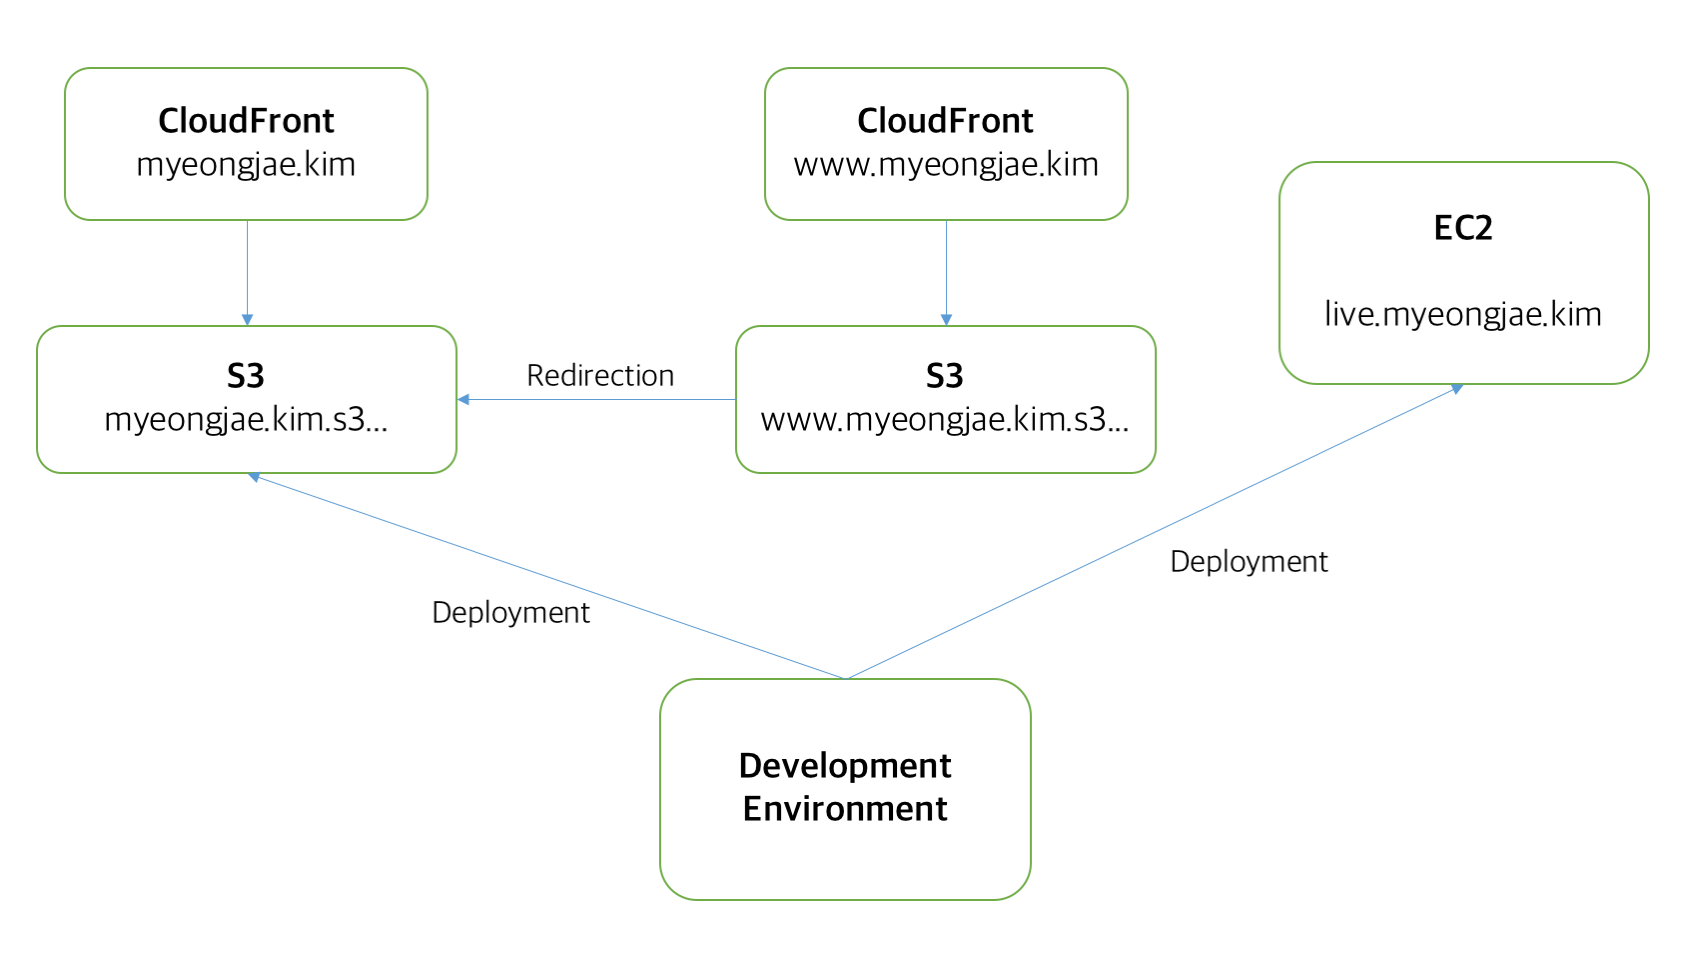
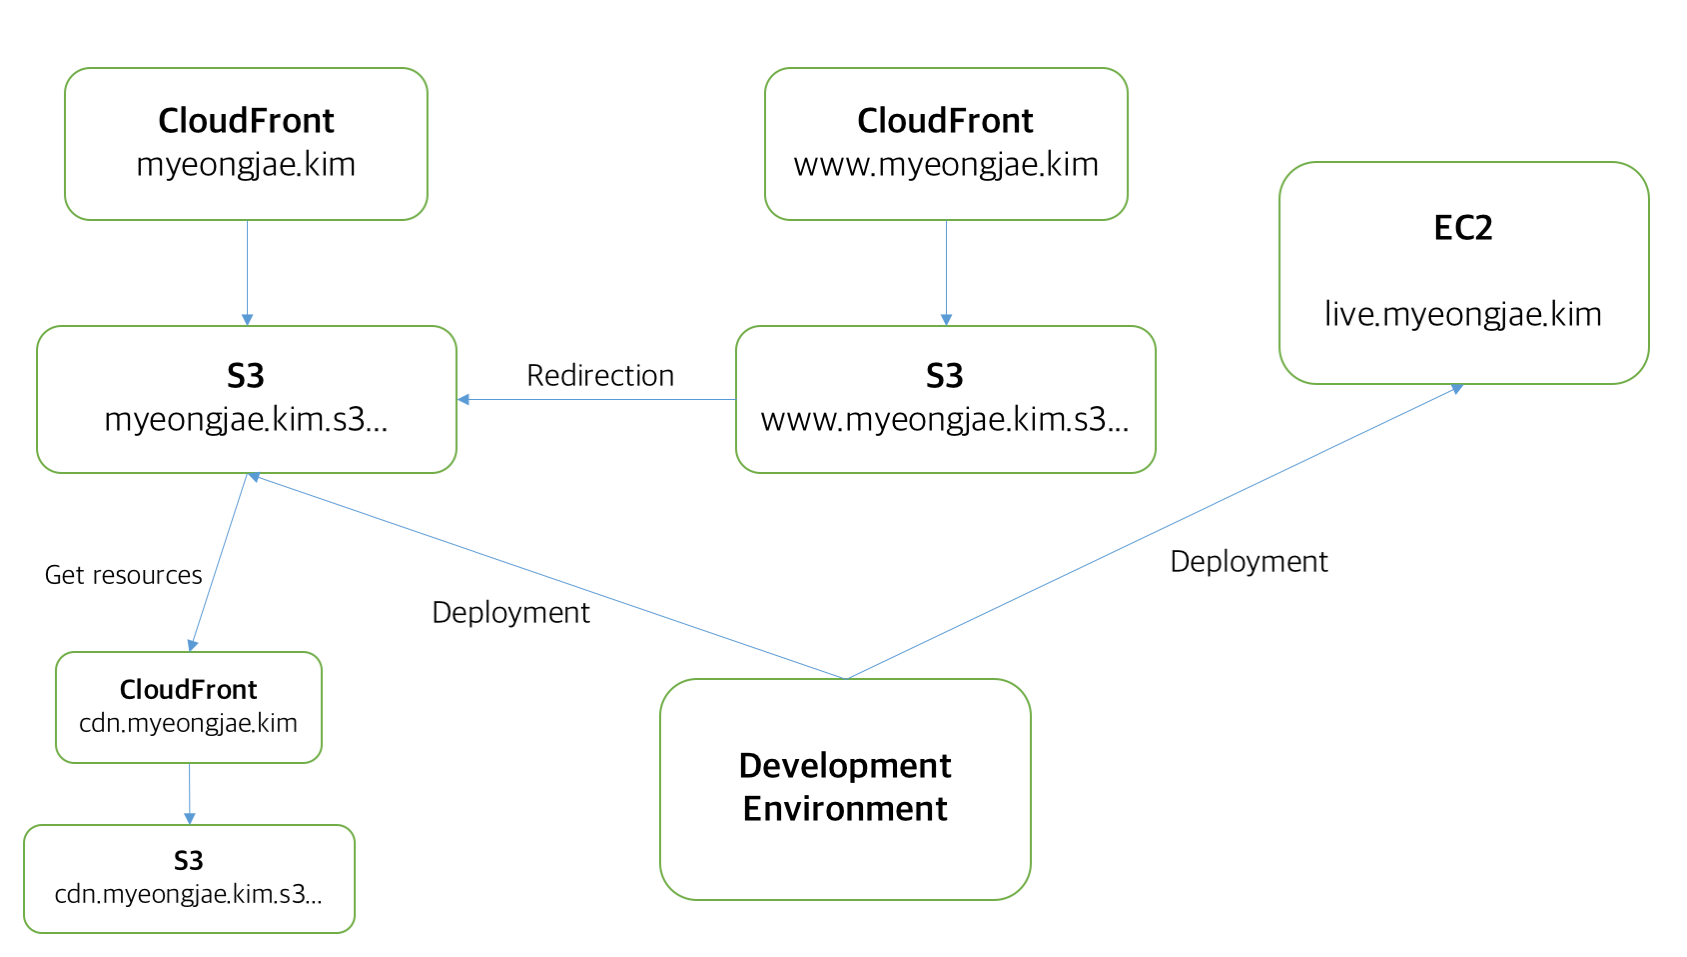
[#3] Documents explaining AWS is added.

Changed region(s): [[0.0308, 0.6667, 0.1849, 0.7879], [0.0308, 0.8485, 0.1849, 0.9697], [0.0308, 0.5758, 0.1233, 0.6061]]

diff --git a/docs/90_AWS Structure.md b/docs/90_AWS Structure.md
@@ -1,0 +1,47 @@
+# The structure of AWS which my website is using
+
+AWS (Amazon Web Service) is one of the most cutting-edge web and server hosting service. I used to use [Vultr](https://www.vultr.com) because it is cheaper than AWS. But many companies which I would like to work for are using or trying to use AWS, so I have migrated my server from Vultr to AWS. As learning AWS, I found a lot of modern techniques about server and app.
+
+## Brief introduction of my AWS structure
+
+![Diagram of my AWS structure](images/aws_structure.png)
+
+The main page of my website is hosted by S3. You can access it by https://myeongjae.kim or https://www.myeongjae.kim. If you select https://www.myeongjae.kim, you will be redirected to https://myenogjae.kim.
+
+https://cdn.myeongjae.kim is also a S3 service, but it can only be accessed by https://myeongjae.kim. Other people cannot use my resource storage.
+
+https://live.myeongjae.kim is a real web server run on EC2. The web server is implemented with golang. The website that I would like to is not that complex, so I chose to develop my own web server not using nginx, apach, or Django.
+
+Every service fully supports https protocol.
+
+## Deployment
+
+Once an update is made in development environment, the update will be deployed to EC2 and S3 (https://live.myeongjae.kim and https://myeongjae.kim).
+
+## Redirecting
+
+I used to use Cloudflare as a DNS server and CDN service, but now I am using Route 53 as a DNS server and CloudFront as a CDN service. Redirecting is not a piece of cake because Route 53 does not support redirecting record in contrast to Cloudflare. There are some steps to achieve redirecting using Route 53
+
+1. Create a S3 bucket and turn on static web hosting. There is a option whose name is 'Redirect requests'. Write a target url you want to redirect to.
+2. (For using https) Create a CloudFront Distribution and its origin must be the bucket we have created in step 1. Request a SSL certificate as creating this distribution.
+3. Create a A Type record and turn on Alias option of the record. The Alias target must be the address of the CloudFront distribution we created in step 2.
+
+You can find more detailed explanation at [here](https://simonecarletti.com/blog/2016/08/redirect-domain-https-amazon-cloudfront/).
+
+## Disallow other people from using my S3 for resources (hotlink)
+
+If you visit https://myeongjae.kim/#/blog, you can see a photo of me that an octopus doll is on my head. Its url is https://cdn.myeongjae.kim/res/logo1.jpg, but if you try to get an image by putting this url to your web browser, you cannot see an image and will be redirected to my website.
+
+The resources in my cdn(https://cdn.myeongjae.kim) only can be accessed through my website. This feature can be implemented using AWS WAF(Web Application Firewall) and AWS ACL(Access Control List)
+
+1. Disallow every access to my S3.
+2. Only allow accesses made by my websites.
+
+You can find more detailed explanation at [here](https://aws.amazon.com/blogs/security/how-to-prevent-hotlinking-by-using-aws-waf-amazon-cloudfront-and-referer-checking/).
+
+Below are other references.
+
+https://docs.aws.amazon.com/AmazonCloudFront/latest/DeveloperGuide/private-content-restricting-access-to-s3.html
+
+https://stackoverflow.com/questions/31680022/amazon-s3-bucket-policy-allow-only-one-domain-to-access-files
+
